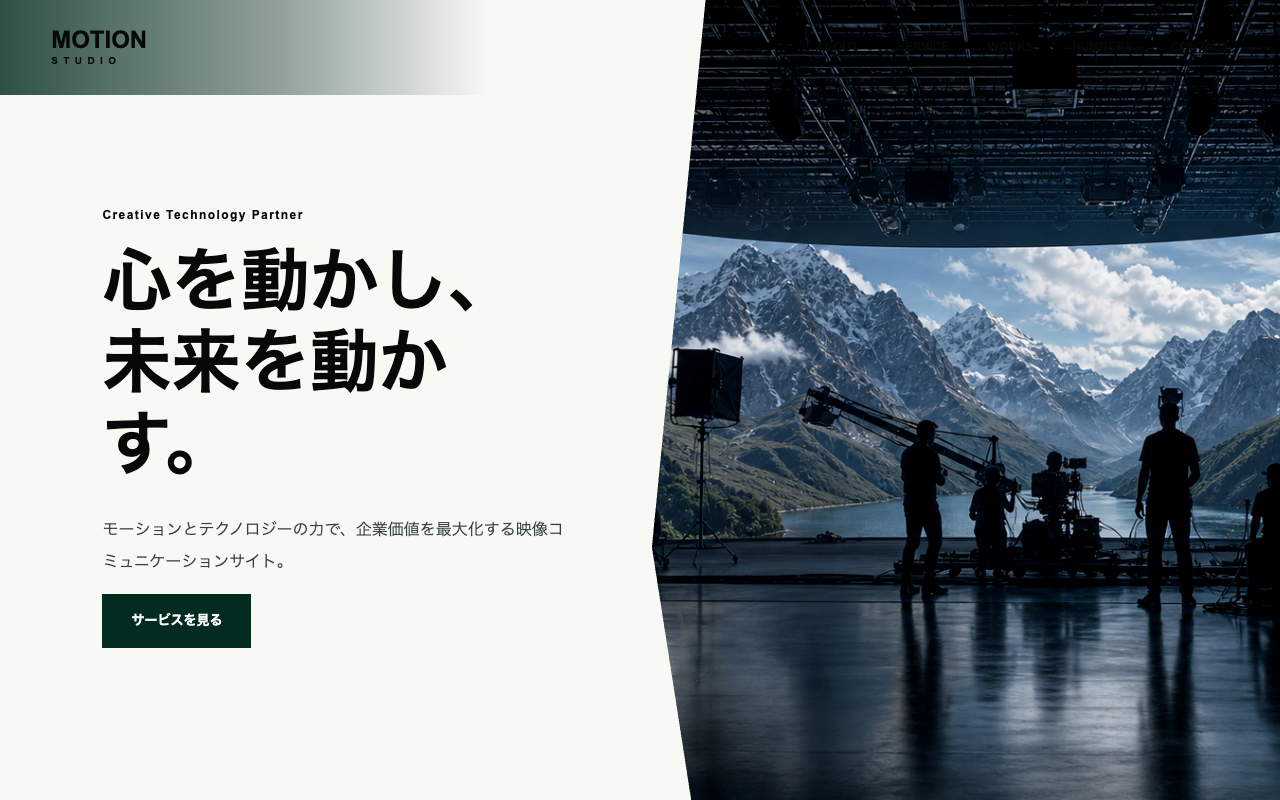
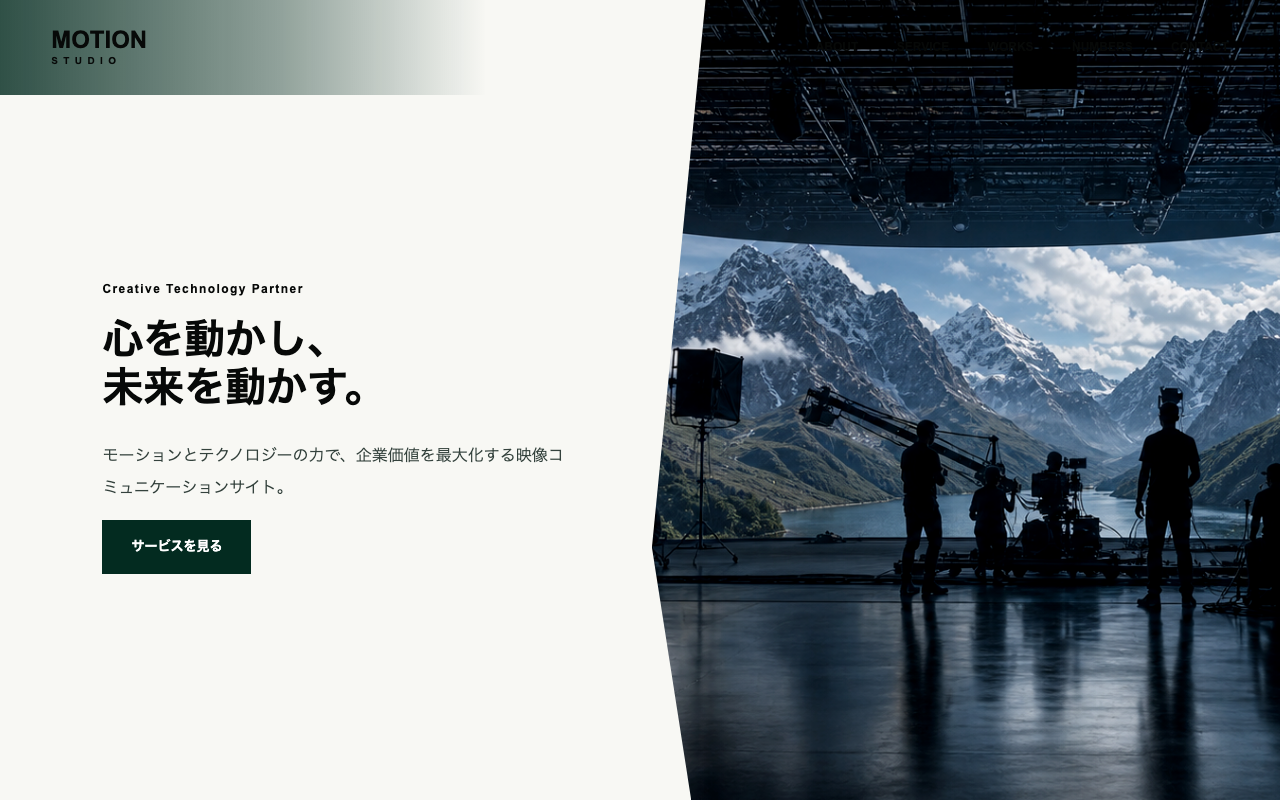
サンプルサイトのヒーローを是正（空箱・偽斜体・毒々しい配色・折返し）
■ 致命的：未完成のモックアップが出荷されていた
- ジム(FORMA): ヒーロー右半分が「Private Training Studio」という空の画像枠だった
  → 光と形の造形に置き換え（FORMA＝形。ブランド名と意味が一致）
- ペット: 「ペット・スタッフ写真」というプレースホルダの丸が残っていた → 撤去

■ 和文の偽斜体を全廃（実DOMで0件を確認）
- 「設計する。」「引き出す」など、日本語に真のイタリック字形が無いため
  ブラウザが機械的に傾けていた（synthesized oblique）

■ 配色
- ペット: 蛍光グリーン(#16a34a→#4ade80) → 落ち着いたセージ
- Webデザイナー: インディゴ→ピンク(#6366f1→#ec4899、生成AI/Web3の定番配色)
  → cyan→indigo の寒色ランプに
- 整体/税理士/社労士/ヨガ/美容室: べた塗りグラデ → 光と奥行きのある放射グラデ＋フィルムグレイン

■ コピー
- ジム: 全編英語だった（日本の中小事業者向けサンプルなのに）→ 日本語に
- motion: 「未来を動か/す。」と単語の途中で割れていた
  → 行をspan化して折り返し禁止＋フォントをclampに

■ 残る課題（正直に）
- 8テンプレはヒーローに画像が1枚も無い（CSSグラデーションのみ）。
  壊れてはいないが、写真のある7枚（cafe/editorial/law/piano/shodo/motion/tech）とは
  明確な差がある。真の納品レベルには写真が要る。
- ヒーロー以外にも空の画像枠が多数残存（Studio Image / インストラクター写真 /
  サロン内観 / 飲食店LP / Google Maps 等）

検証: 21ページ×2幅で横オーバーフロー0・コンソールエラー0・画像404 0

Changed region(s): [[0.0625, 0.3125, 0.4375, 0.8125], [0.0938, 0.25, 0.25, 0.2812]]

diff --git a/index.html b/index.html
@@ -343,7 +343,7 @@
   </div>
   <div class="mq reveal" role="region" aria-label="制作サンプル（自動スクロール）">
     <button type="button" class="mq-toggle" id="mqToggle" aria-pressed="false"><span class="mq-toggle-ico" aria-hidden="true"></span><span class="mq-toggle-txt">一時停止</span></button>
-    <div class="mq-row mq-row--left"><div class="mq-track"><a class="mq-card" href="gallery.html" aria-label="制作イメージ：カフェ・飲食店"><img fetchpriority="low" decoding="async" src="img/mq/sample-cafe.webp" alt="カフェ・飲食店のサイト制作イメージ（LUMEN自社制作サンプル・実案件ではありません）" width="560" height="350"><span class="work-mark">SAMPLE</span></a><a class="mq-card" href="gallery.html" aria-label="制作イメージ：コーポレート・企業"><img fetchpriority="low" decoding="async" src="img/mq/tmpl-editorial.webp?v=3" alt="コーポレート・企業のサイト制作イメージ（LUMEN自社制作サンプル・実案件ではありません）" width="560" height="350"><span class="work-mark">SAMPLE</span></a><a class="mq-card" href="gallery.html" aria-label="制作イメージ：IT・スタートアップ"><img fetchpriority="low" decoding="async" src="img/mq/tmpl-tech.webp" alt="IT・スタートアップのサイト制作イメージ（LUMEN自社制作サンプル・実案件ではありません）" width="560" height="350"><span class="work-mark">SAMPLE</span></a><a class="mq-card" href="gallery.html" aria-label="制作イメージ：法律事務所"><img fetchpriority="low" decoding="async" src="img/mq/sample-law.webp" alt="法律事務所のサイト制作イメージ（LUMEN自社制作サンプル・実案件ではありません）" width="560" height="350"><span class="work-mark">SAMPLE</span></a><a class="mq-card" href="gallery.html" aria-label="制作イメージ：士業・社労士"><img fetchpriority="low" decoding="async" src="img/mq/sample-sharoushi.webp" alt="士業・社労士のサイト制作イメージ（LUMEN自社制作サンプル・実案件ではありません）" width="560" height="350"><span class="work-mark">SAMPLE</span></a><a class="mq-card" href="gallery.html" aria-label="制作イメージ：税理士・会計"><img fetchpriority="low" decoding="async" src="img/mq/tmpl-tax.webp" alt="税理士・会計のサイト制作イメージ（LUMEN自社制作サンプル・実案件ではありません）" width="560" height="350"><span class="work-mark">SAMPLE</span></a><a class="mq-card" href="gallery.html" aria-label="制作イメージ：整体・整骨院"><img fetchpriority="low" decoding="async" src="img/mq/sample-seitai.webp" alt="整体・整骨院のサイト制作イメージ（LUMEN自社制作サンプル・実案件ではありません）" width="560" height="350"><span class="work-mark">SAMPLE</span></a><a class="mq-card" href="gallery.html" aria-label="制作イメージ：フィットネス・ジム"><img fetchpriority="low" decoding="async" src="img/mq/tmpl-gym.webp" alt="フィットネス・ジムのサイト制作イメージ（LUMEN自社制作サンプル・実案件ではありません）" width="560" height="350"><span class="work-mark">SAMPLE</span></a><a class="mq-card" href="gallery.html" aria-label="制作イメージ：ヨガ・スタジオ"><img fetchpriority="low" decoding="async" src="img/mq/tmpl-yoga.webp" alt="ヨガ・スタジオのサイト制作イメージ（LUMEN自社制作サンプル・実案件ではありません）" width="560" height="350"><span class="work-mark">SAMPLE</span></a><a class="mq-card" href="gallery.html" aria-label="制作イメージ：美容室・サロン"><img fetchpriority="low" decoding="async" src="img/mq/tmpl-hair.webp" alt="美容室・サロンのサイト制作イメージ（LUMEN自社制作サンプル・実案件ではありません）" width="560" height="350"><span class="work-mark">SAMPLE</span></a><a class="mq-card" href="gallery.html" aria-label="制作イメージ：ペット・動物病院"><img fetchpriority="low" decoding="async" src="img/mq/tmpl-pet.webp" alt="ペット・動物病院のサイト制作イメージ（LUMEN自社制作サンプル・実案件ではありません）" width="560" height="350"><span class="work-mark">SAMPLE</span></a><a class="mq-card" href="gallery.html" aria-label="制作イメージ：音楽・習い事教室"><img fetchpriority="low" decoding="async" src="img/mq/sample-piano.webp" alt="音楽・習い事教室のサイト制作イメージ（LUMEN自社制作サンプル・実案件ではありません）" width="560" height="350"><span class="work-mark">SAMPLE</span></a><a class="mq-card" href="gallery.html" aria-label="制作イメージ：映像・クリエイティブ"><img fetchpriority="low" decoding="async" src="img/mq/tmpl-motion.webp" alt="映像・クリエイティブのサイト制作イメージ（LUMEN自社制作サンプル・実案件ではありません）" width="560" height="350"><span class="work-mark">SAMPLE</span></a><a class="mq-card" href="gallery.html" aria-label="制作イメージ：Web・ブランド"><img fetchpriority="low" decoding="async" src="img/mq/tmpl-webdes.webp" alt="Web・ブランドのサイト制作イメージ（LUMEN自社制作サンプル・実案件ではありません）" width="560" height="350"><span class="work-mark">SAMPLE</span></a><a class="mq-card" href="gallery.html" aria-label="制作イメージ：書道・和の教室"><img fetchpriority="low" decoding="async" src="img/mq/sample-shodo.webp" alt="書道・和の教室のサイト制作イメージ（LUMEN自社制作サンプル・実案件ではありません）" width="560" height="350"><span class="work-mark">SAMPLE</span></a><a class="mq-card" href="gallery.html" aria-hidden="true" tabindex="-1"><img fetchpriority="low" decoding="async" src="img/mq/sample-cafe.webp" alt="カフェ・飲食店のサイト制作イメージ（LUMEN自社制作サンプル・実案件ではありません）" width="560" height="350"><span class="work-mark">SAMPLE</span></a><a class="mq-card" href="gallery.html" aria-hidden="true" tabindex="-1"><img fetchpriority="low" decoding="async" src="img/mq/tmpl-editorial.webp?v=3" alt="コーポレート・企業のサイト制作イメージ（LUMEN自社制作サンプル・実案件ではありません）" width="560" height="350"><span class="work-mark">SAMPLE</span></a><a class="mq-card" href="gallery.html" aria-hidden="true" tabindex="-1"><img fetchpriority="low" decoding="async" src="img/mq/tmpl-tech.webp" alt="IT・スタートアップのサイト制作イメージ（LUMEN自社制作サンプル・実案件ではありません）" width="560" height="350"><span class="work-mark">SAMPLE</span></a><a class="mq-card" href="gallery.html" aria-hidden="true" tabindex="-1"><img fetchpriority="low" decoding="async" src="img/mq/sample-law.webp" alt="法律事務所のサイト制作イメージ（LUMEN自社制作サンプル・実案件ではありません）" width="560" height="350"><span class="work-mark">SAMPLE</span></a><a class="mq-card" href="gallery.html" aria-hidden="true" tabindex="-1"><img fetchpriority="low" decoding="async" src="img/mq/sample-sharoushi.webp" alt="士業・社労士のサイト制作イメージ（LUMEN自社制作サンプル・実案件ではありません）" width="560" height="350"><span class="work-mark">SAMPLE</span></a><a class="mq-card" href="gallery.html" aria-hidden="true" tabindex="-1"><img fetchpriority="low" decoding="async" src="img/mq/tmpl-tax.webp" alt="税理士・会計のサイト制作イメージ（LUMEN自社制作サンプル・実案件ではありません）" width="560" height="350"><span class="work-mark">SAMPLE</span></a><a class="mq-card" href="gallery.html" aria-hidden="true" tabindex="-1"><img fetchpriority="low" decoding="async" src="img/mq/sample-seitai.webp" alt="整体・整骨院のサイト制作イメージ（LUMEN自社制作サンプル・実案件ではありません）" width="560" height="350"><span class="work-mark">SAMPLE</span></a><a class="mq-card" href="gallery.html" aria-hidden="true" tabindex="-1"><img fetchpriority="low" decoding="async" src="img/mq/tmpl-gym.webp" alt="フィットネス・ジムのサイト制作イメージ（LUMEN自社制作サンプル・実案件ではありません）" width="560" height="350"><span class="work-mark">SAMPLE</span></a><a class="mq-card" href="gallery.html" aria-hidden="true" tabindex="-1"><img fetchpriority="low" decoding="async" src="img/mq/tmpl-yoga.webp" alt="ヨガ・スタジオのサイト制作イメージ（LUMEN自社制作サンプル・実案件ではありません）" width="560" height="350"><span class="work-mark">SAMPLE</span></a><a class="mq-card" href="gallery.html" aria-hidden="true" tabindex="-1"><img fetchpriority="low" decoding="async" src="img/mq/tmpl-hair.webp" alt="美容室・サロンのサイト制作イメージ（LUMEN自社制作サンプル・実案件ではありません）" width="560" height="350"><span class="work-mark">SAMPLE</span></a><a class="mq-card" href="gallery.html" aria-hidden="true" tabindex="-1"><img fetchpriority="low" decoding="async" src="img/mq/tmpl-pet.webp" alt="ペット・動物病院のサイト制作イメージ（LUMEN自社制作サンプル・実案件ではありません）" width="560" height="350"><span class="work-mark">SAMPLE</span></a><a class="mq-card" href="gallery.html" aria-hidden="true" tabindex="-1"><img fetchpriority="low" decoding="async" src="img/mq/sample-piano.webp" alt="音楽・習い事教室のサイト制作イメージ（LUMEN自社制作サンプル・実案件ではありません）" width="560" height="350"><span class="work-mark">SAMPLE</span></a><a class="mq-card" href="gallery.html" aria-hidden="true" tabindex="-1"><img fetchpriority="low" decoding="async" src="img/mq/tmpl-motion.webp" alt="映像・クリエイティブのサイト制作イメージ（LUMEN自社制作サンプル・実案件ではありません）" width="560" height="350"><span class="work-mark">SAMPLE</span></a><a class="mq-card" href="gallery.html" aria-hidden="true" tabindex="-1"><img fetchpriority="low" decoding="async" src="img/mq/tmpl-webdes.webp" alt="Web・ブランドのサイト制作イメージ（LUMEN自社制作サンプル・実案件ではありません）" width="560" height="350"><span class="work-mark">SAMPLE</span></a><a class="mq-card" href="gallery.html" aria-hidden="true" tabindex="-1"><img fetchpriority="low" decoding="async" src="img/mq/sample-shodo.webp" alt="書道・和の教室のサイト制作イメージ（LUMEN自社制作サンプル・実案件ではありません）" width="560" height="350"><span class="work-mark">SAMPLE</span></a></div></div>
+    <div class="mq-row mq-row--left"><div class="mq-track"><a class="mq-card" href="gallery.html" aria-label="制作イメージ：カフェ・飲食店"><img fetchpriority="low" decoding="async" src="img/mq/sample-cafe.webp" alt="カフェ・飲食店のサイト制作イメージ（LUMEN自社制作サンプル・実案件ではありません）" width="560" height="350"><span class="work-mark">SAMPLE</span></a><a class="mq-card" href="gallery.html" aria-label="制作イメージ：コーポレート・企業"><img fetchpriority="low" decoding="async" src="img/mq/tmpl-editorial.webp?v=3" alt="コーポレート・企業のサイト制作イメージ（LUMEN自社制作サンプル・実案件ではありません）" width="560" height="350"><span class="work-mark">SAMPLE</span></a><a class="mq-card" href="gallery.html" aria-label="制作イメージ：IT・スタートアップ"><img fetchpriority="low" decoding="async" src="img/mq/tmpl-tech.webp" alt="IT・スタートアップのサイト制作イメージ（LUMEN自社制作サンプル・実案件ではありません）" width="560" height="350"><span class="work-mark">SAMPLE</span></a><a class="mq-card" href="gallery.html" aria-label="制作イメージ：法律事務所"><img fetchpriority="low" decoding="async" src="img/mq/sample-law.webp" alt="法律事務所のサイト制作イメージ（LUMEN自社制作サンプル・実案件ではありません）" width="560" height="350"><span class="work-mark">SAMPLE</span></a><a class="mq-card" href="gallery.html" aria-label="制作イメージ：士業・社労士"><img fetchpriority="low" decoding="async" src="img/mq/sample-sharoushi.webp?v=4" alt="士業・社労士のサイト制作イメージ（LUMEN自社制作サンプル・実案件ではありません）" width="560" height="350"><span class="work-mark">SAMPLE</span></a><a class="mq-card" href="gallery.html" aria-label="制作イメージ：税理士・会計"><img fetchpriority="low" decoding="async" src="img/mq/tmpl-tax.webp?v=4" alt="税理士・会計のサイト制作イメージ（LUMEN自社制作サンプル・実案件ではありません）" width="560" height="350"><span class="work-mark">SAMPLE</span></a><a class="mq-card" href="gallery.html" aria-label="制作イメージ：整体・整骨院"><img fetchpriority="low" decoding="async" src="img/mq/sample-seitai.webp?v=4" alt="整体・整骨院のサイト制作イメージ（LUMEN自社制作サンプル・実案件ではありません）" width="560" height="350"><span class="work-mark">SAMPLE</span></a><a class="mq-card" href="gallery.html" aria-label="制作イメージ：フィットネス・ジム"><img fetchpriority="low" decoding="async" src="img/mq/tmpl-gym.webp?v=4" alt="フィットネス・ジムのサイト制作イメージ（LUMEN自社制作サンプル・実案件ではありません）" width="560" height="350"><span class="work-mark">SAMPLE</span></a><a class="mq-card" href="gallery.html" aria-label="制作イメージ：ヨガ・スタジオ"><img fetchpriority="low" decoding="async" src="img/mq/tmpl-yoga.webp?v=4" alt="ヨガ・スタジオのサイト制作イメージ（LUMEN自社制作サンプル・実案件ではありません）" width="560" height="350"><span class="work-mark">SAMPLE</span></a><a class="mq-card" href="gallery.html" aria-label="制作イメージ：美容室・サロン"><img fetchpriority="low" decoding="async" src="img/mq/tmpl-hair.webp?v=4" alt="美容室・サロンのサイト制作イメージ（LUMEN自社制作サンプル・実案件ではありません）" width="560" height="350"><span class="work-mark">SAMPLE</span></a><a class="mq-card" href="gallery.html" aria-label="制作イメージ：ペット・動物病院"><img fetchpriority="low" decoding="async" src="img/mq/tmpl-pet.webp?v=4" alt="ペット・動物病院のサイト制作イメージ（LUMEN自社制作サンプル・実案件ではありません）" width="560" height="350"><span class="work-mark">SAMPLE</span></a><a class="mq-card" href="gallery.html" aria-label="制作イメージ：音楽・習い事教室"><img fetchpriority="low" decoding="async" src="img/mq/sample-piano.webp" alt="音楽・習い事教室のサイト制作イメージ（LUMEN自社制作サンプル・実案件ではありません）" width="560" height="350"><span class="work-mark">SAMPLE</span></a><a class="mq-card" href="gallery.html" aria-label="制作イメージ：映像・クリエイティブ"><img fetchpriority="low" decoding="async" src="img/mq/tmpl-motion.webp?v=4" alt="映像・クリエイティブのサイト制作イメージ（LUMEN自社制作サンプル・実案件ではありません）" width="560" height="350"><span class="work-mark">SAMPLE</span></a><a class="mq-card" href="gallery.html" aria-label="制作イメージ：Web・ブランド"><img fetchpriority="low" decoding="async" src="img/mq/tmpl-webdes.webp?v=4" alt="Web・ブランドのサイト制作イメージ（LUMEN自社制作サンプル・実案件ではありません）" width="560" height="350"><span class="work-mark">SAMPLE</span></a><a class="mq-card" href="gallery.html" aria-label="制作イメージ：書道・和の教室"><img fetchpriority="low" decoding="async" src="img/mq/sample-shodo.webp" alt="書道・和の教室のサイト制作イメージ（LUMEN自社制作サンプル・実案件ではありません）" width="560" height="350"><span class="work-mark">SAMPLE</span></a><a class="mq-card" href="gallery.html" aria-hidden="true" tabindex="-1"><img fetchpriority="low" decoding="async" src="img/mq/sample-cafe.webp" alt="カフェ・飲食店のサイト制作イメージ（LUMEN自社制作サンプル・実案件ではありません）" width="560" height="350"><span class="work-mark">SAMPLE</span></a><a class="mq-card" href="gallery.html" aria-hidden="true" tabindex="-1"><img fetchpriority="low" decoding="async" src="img/mq/tmpl-editorial.webp?v=3" alt="コーポレート・企業のサイト制作イメージ（LUMEN自社制作サンプル・実案件ではありません）" width="560" height="350"><span class="work-mark">SAMPLE</span></a><a class="mq-card" href="gallery.html" aria-hidden="true" tabindex="-1"><img fetchpriority="low" decoding="async" src="img/mq/tmpl-tech.webp" alt="IT・スタートアップのサイト制作イメージ（LUMEN自社制作サンプル・実案件ではありません）" width="560" height="350"><span class="work-mark">SAMPLE</span></a><a class="mq-card" href="gallery.html" aria-hidden="true" tabindex="-1"><img fetchpriority="low" decoding="async" src="img/mq/sample-law.webp" alt="法律事務所のサイト制作イメージ（LUMEN自社制作サンプル・実案件ではありません）" width="560" height="350"><span class="work-mark">SAMPLE</span></a><a class="mq-card" href="gallery.html" aria-hidden="true" tabindex="-1"><img fetchpriority="low" decoding="async" src="img/mq/sample-sharoushi.webp?v=4" alt="士業・社労士のサイト制作イメージ（LUMEN自社制作サンプル・実案件ではありません）" width="560" height="350"><span class="work-mark">SAMPLE</span></a><a class="mq-card" href="gallery.html" aria-hidden="true" tabindex="-1"><img fetchpriority="low" decoding="async" src="img/mq/tmpl-tax.webp?v=4" alt="税理士・会計のサイト制作イメージ（LUMEN自社制作サンプル・実案件ではありません）" width="560" height="350"><span class="work-mark">SAMPLE</span></a><a class="mq-card" href="gallery.html" aria-hidden="true" tabindex="-1"><img fetchpriority="low" decoding="async" src="img/mq/sample-seitai.webp?v=4" alt="整体・整骨院のサイト制作イメージ（LUMEN自社制作サンプル・実案件ではありません）" width="560" height="350"><span class="work-mark">SAMPLE</span></a><a class="mq-card" href="gallery.html" aria-hidden="true" tabindex="-1"><img fetchpriority="low" decoding="async" src="img/mq/tmpl-gym.webp?v=4" alt="フィットネス・ジムのサイト制作イメージ（LUMEN自社制作サンプル・実案件ではありません）" width="560" height="350"><span class="work-mark">SAMPLE</span></a><a class="mq-card" href="gallery.html" aria-hidden="true" tabindex="-1"><img fetchpriority="low" decoding="async" src="img/mq/tmpl-yoga.webp?v=4" alt="ヨガ・スタジオのサイト制作イメージ（LUMEN自社制作サンプル・実案件ではありません）" width="560" height="350"><span class="work-mark">SAMPLE</span></a><a class="mq-card" href="gallery.html" aria-hidden="true" tabindex="-1"><img fetchpriority="low" decoding="async" src="img/mq/tmpl-hair.webp?v=4" alt="美容室・サロンのサイト制作イメージ（LUMEN自社制作サンプル・実案件ではありません）" width="560" height="350"><span class="work-mark">SAMPLE</span></a><a class="mq-card" href="gallery.html" aria-hidden="true" tabindex="-1"><img fetchpriority="low" decoding="async" src="img/mq/tmpl-pet.webp?v=4" alt="ペット・動物病院のサイト制作イメージ（LUMEN自社制作サンプル・実案件ではありません）" width="560" height="350"><span class="work-mark">SAMPLE</span></a><a class="mq-card" href="gallery.html" aria-hidden="true" tabindex="-1"><img fetchpriority="low" decoding="async" src="img/mq/sample-piano.webp" alt="音楽・習い事教室のサイト制作イメージ（LUMEN自社制作サンプル・実案件ではありません）" width="560" height="350"><span class="work-mark">SAMPLE</span></a><a class="mq-card" href="gallery.html" aria-hidden="true" tabindex="-1"><img fetchpriority="low" decoding="async" src="img/mq/tmpl-motion.webp?v=4" alt="映像・クリエイティブのサイト制作イメージ（LUMEN自社制作サンプル・実案件ではありません）" width="560" height="350"><span class="work-mark">SAMPLE</span></a><a class="mq-card" href="gallery.html" aria-hidden="true" tabindex="-1"><img fetchpriority="low" decoding="async" src="img/mq/tmpl-webdes.webp?v=4" alt="Web・ブランドのサイト制作イメージ（LUMEN自社制作サンプル・実案件ではありません）" width="560" height="350"><span class="work-mark">SAMPLE</span></a><a class="mq-card" href="gallery.html" aria-hidden="true" tabindex="-1"><img fetchpriority="low" decoding="async" src="img/mq/sample-shodo.webp" alt="書道・和の教室のサイト制作イメージ（LUMEN自社制作サンプル・実案件ではありません）" width="560" height="350"><span class="work-mark">SAMPLE</span></a></div></div>
     <div class="mq-row mq-row--right"><div class="mq-track"><a class="mq-card mq-card--live" href="works/hero-water.html" target="_blank" rel="noopener" aria-label="動く演出：水面と光"><img fetchpriority="low" decoding="async" src="img/mq/hero-water.webp" alt="水面と光の動くヒーロー演出（LUMEN自社制作サンプル・実案件ではありません）" width="560" height="350"><span class="mq-live">LIVE</span><span class="work-mark">SAMPLE</span></a><a class="mq-card mq-card--live" href="works/hero-aurora.html" target="_blank" rel="noopener" aria-label="動く演出：オーロラ"><img fetchpriority="low" decoding="async" src="img/mq/hero-aurora.webp" alt="オーロラの動くヒーロー演出（LUMEN自社制作サンプル・実案件ではありません）" width="560" height="350"><span class="mq-live">LIVE</span><span class="work-mark">SAMPLE</span></a><a class="mq-card mq-card--live" href="works/hero-geo.html" target="_blank" rel="noopener" aria-label="動く演出：浮遊する立体"><img fetchpriority="low" decoding="async" src="img/mq/hero-geo.webp" alt="浮遊する立体の動くヒーロー演出（LUMEN自社制作サンプル・実案件ではありません）" width="560" height="350"><span class="mq-live">LIVE</span><span class="work-mark">SAMPLE</span></a><a class="mq-card mq-card--live" href="works/hero-glass.html" target="_blank" rel="noopener" aria-label="動く演出：ガラスの屈折"><img fetchpriority="low" decoding="async" src="img/mq/hero-glass.webp" alt="ガラスの屈折の動くヒーロー演出（LUMEN自社制作サンプル・実案件ではありません）" width="560" height="350"><span class="mq-live">LIVE</span><span class="work-mark">SAMPLE</span></a><a class="mq-card mq-card--live" href="works/hero-grid.html" target="_blank" rel="noopener" aria-label="動く演出：奥行きグリッド"><img fetchpriority="low" decoding="async" src="img/mq/hero-grid.webp" alt="奥行きグリッドの動くヒーロー演出（LUMEN自社制作サンプル・実案件ではありません）" width="560" height="350"><span class="mq-live">LIVE</span><span class="work-mark">SAMPLE</span></a><a class="mq-card mq-card--live" href="works/hero-particles.html" target="_blank" rel="noopener" aria-label="動く演出：フロウ・フィールド"><img fetchpriority="low" decoding="async" src="img/mq/hero-particles.webp" alt="フロウ・フィールドの動くヒーロー演出（LUMEN自社制作サンプル・実案件ではありません）" width="560" height="350"><span class="mq-live">LIVE</span><span class="work-mark">SAMPLE</span></a><a class="mq-card mq-card--live" href="works/hero-crystal.html" target="_blank" rel="noopener" aria-label="動く演出：クリスタル"><img fetchpriority="low" decoding="async" src="img/mq/hero-crystal.webp" alt="クリスタルの動くヒーロー演出（LUMEN自社制作サンプル・実案件ではありません）" width="560" height="350"><span class="mq-live">LIVE</span><span class="work-mark">SAMPLE</span></a><a class="mq-card mq-card--live" href="works/hero-caustics.html" target="_blank" rel="noopener" aria-label="動く演出：コースティクス"><img fetchpriority="low" decoding="async" src="img/mq/hero-caustics.webp" alt="コースティクスの動くヒーロー演出（LUMEN自社制作サンプル・実案件ではありません）" width="560" height="350"><span class="mq-live">LIVE</span><span class="work-mark">SAMPLE</span></a><a class="mq-card mq-card--live" href="works/hero-carbon.html" target="_blank" rel="noopener" aria-label="動く演出：カーボンメッシュ"><img fetchpriority="low" decoding="async" src="img/mq/hero-carbon.webp" alt="カーボンメッシュの動くヒーロー演出（LUMEN自社制作サンプル・実案件ではありません）" width="560" height="350"><span class="mq-live">LIVE</span><span class="work-mark">SAMPLE</span></a><a class="mq-card mq-card--live" href="works/hero-light.html" target="_blank" rel="noopener" aria-label="動く演出：ライト・グラデーション"><img fetchpriority="low" decoding="async" src="img/mq/hero-light.webp" alt="ライト・グラデーションの動くヒーロー演出（LUMEN自社制作サンプル・実案件ではありません）" width="560" height="350"><span class="mq-live">LIVE</span><span class="work-mark">SAMPLE</span></a><a class="mq-card mq-card--live" href="works/hero-water.html" target="_blank" rel="noopener" aria-hidden="true" tabindex="-1"><img fetchpriority="low" decoding="async" src="img/mq/hero-water.webp" alt="水面と光の動くヒーロー演出（LUMEN自社制作サンプル・実案件ではありません）" width="560" height="350"><span class="mq-live">LIVE</span><span class="work-mark">SAMPLE</span></a><a class="mq-card mq-card--live" href="works/hero-aurora.html" target="_blank" rel="noopener" aria-hidden="true" tabindex="-1"><img fetchpriority="low" decoding="async" src="img/mq/hero-aurora.webp" alt="オーロラの動くヒーロー演出（LUMEN自社制作サンプル・実案件ではありません）" width="560" height="350"><span class="mq-live">LIVE</span><span class="work-mark">SAMPLE</span></a><a class="mq-card mq-card--live" href="works/hero-geo.html" target="_blank" rel="noopener" aria-hidden="true" tabindex="-1"><img fetchpriority="low" decoding="async" src="img/mq/hero-geo.webp" alt="浮遊する立体の動くヒーロー演出（LUMEN自社制作サンプル・実案件ではありません）" width="560" height="350"><span class="mq-live">LIVE</span><span class="work-mark">SAMPLE</span></a><a class="mq-card mq-card--live" href="works/hero-glass.html" target="_blank" rel="noopener" aria-hidden="true" tabindex="-1"><img fetchpriority="low" decoding="async" src="img/mq/hero-glass.webp" alt="ガラスの屈折の動くヒーロー演出（LUMEN自社制作サンプル・実案件ではありません）" width="560" height="350"><span class="mq-live">LIVE</span><span class="work-mark">SAMPLE</span></a><a class="mq-card mq-card--live" href="works/hero-grid.html" target="_blank" rel="noopener" aria-hidden="true" tabindex="-1"><img fetchpriority="low" decoding="async" src="img/mq/hero-grid.webp" alt="奥行きグリッドの動くヒーロー演出（LUMEN自社制作サンプル・実案件ではありません）" width="560" height="350"><span class="mq-live">LIVE</span><span class="work-mark">SAMPLE</span></a><a class="mq-card mq-card--live" href="works/hero-particles.html" target="_blank" rel="noopener" aria-hidden="true" tabindex="-1"><img fetchpriority="low" decoding="async" src="img/mq/hero-particles.webp" alt="フロウ・フィールドの動くヒーロー演出（LUMEN自社制作サンプル・実案件ではありません）" width="560" height="350"><span class="mq-live">LIVE</span><span class="work-mark">SAMPLE</span></a><a class="mq-card mq-card--live" href="works/hero-crystal.html" target="_blank" rel="noopener" aria-hidden="true" tabindex="-1"><img fetchpriority="low" decoding="async" src="img/mq/hero-crystal.webp" alt="クリスタルの動くヒーロー演出（LUMEN自社制作サンプル・実案件ではありません）" width="560" height="350"><span class="mq-live">LIVE</span><span class="work-mark">SAMPLE</span></a><a class="mq-card mq-card--live" href="works/hero-caustics.html" target="_blank" rel="noopener" aria-hidden="true" tabindex="-1"><img fetchpriority="low" decoding="async" src="img/mq/hero-caustics.webp" alt="コースティクスの動くヒーロー演出（LUMEN自社制作サンプル・実案件ではありません）" width="560" height="350"><span class="mq-live">LIVE</span><span class="work-mark">SAMPLE</span></a><a class="mq-card mq-card--live" href="works/hero-carbon.html" target="_blank" rel="noopener" aria-hidden="true" tabindex="-1"><img fetchpriority="low" decoding="async" src="img/mq/hero-carbon.webp" alt="カーボンメッシュの動くヒーロー演出（LUMEN自社制作サンプル・実案件ではありません）" width="560" height="350"><span class="mq-live">LIVE</span><span class="work-mark">SAMPLE</span></a><a class="mq-card mq-card--live" href="works/hero-light.html" target="_blank" rel="noopener" aria-hidden="true" tabindex="-1"><img fetchpriority="low" decoding="async" src="img/mq/hero-light.webp" alt="ライト・グラデーションの動くヒーロー演出（LUMEN自社制作サンプル・実案件ではありません）" width="560" height="350"><span class="mq-live">LIVE</span><span class="work-mark">SAMPLE</span></a></div></div>
   </div>
   <div class="wrap">

diff --git a/gallery.html b/gallery.html
@@ -119,16 +119,16 @@
       <figure class="work-card"><img src="img/samples/tmpl-editorial.png?v=3" alt="コーポレート・企業サイトの制作イメージ（LUMEN自社制作サンプル・実案件ではありません）" loading="lazy" width="1280" height="800"><span class="work-mark">SAMPLE</span><figcaption class="work-cap"><b>コーポレート・企業</b><span>Corporate</span></figcaption></figure>
       <figure class="work-card"><img src="img/samples/tmpl-tech.png" alt="IT・スタートアップのサイト制作イメージ（LUMEN自社制作サンプル・実案件ではありません）" loading="lazy" width="1280" height="800"><span class="work-mark">SAMPLE</span><figcaption class="work-cap"><b>IT・スタートアップ</b><span>Tech</span></figcaption></figure>
       <figure class="work-card"><img src="img/samples/sample-law.png" alt="法律事務所のサイト制作イメージ（LUMEN自社制作サンプル・実案件ではありません）" loading="lazy" width="1280" height="800"><span class="work-mark">SAMPLE</span><figcaption class="work-cap"><b>法律事務所</b><span>Law Office</span></figcaption></figure>
-      <figure class="work-card"><img src="img/samples/sample-sharoushi.png" alt="社労士・士業のサイト制作イメージ（LUMEN自社制作サンプル・実案件ではありません）" loading="lazy" width="1280" height="800"><span class="work-mark">SAMPLE</span><figcaption class="work-cap"><b>士業・社労士</b><span>Professional</span></figcaption></figure>
-      <figure class="work-card"><img src="img/samples/tmpl-tax.png" alt="税理士・会計事務所のサイト制作イメージ（LUMEN自社制作サンプル・実案件ではありません）" loading="lazy" width="1280" height="800"><span class="work-mark">SAMPLE</span><figcaption class="work-cap"><b>税理士・会計</b><span>Accounting</span></figcaption></figure>
-      <figure class="work-card"><img src="img/samples/sample-seitai.png" alt="整体・整骨院のサイト制作イメージ（LUMEN自社制作サンプル・実案件ではありません）" loading="lazy" width="1280" height="800"><span class="work-mark">SAMPLE</span><figcaption class="work-cap"><b>整体・整骨院</b><span>Wellness</span></figcaption></figure>
-      <figure class="work-card"><img src="img/samples/tmpl-gym.png" alt="フィットネス・ジムのサイト制作イメージ（LUMEN自社制作サンプル・実案件ではありません）" loading="lazy" width="1280" height="800"><span class="work-mark">SAMPLE</span><figcaption class="work-cap"><b>フィットネス・ジム</b><span>Fitness</span></figcaption></figure>
-      <figure class="work-card"><img src="img/samples/tmpl-yoga.png" alt="ヨガ・スタジオのサイト制作イメージ（LUMEN自社制作サンプル・実案件ではありません）" loading="lazy" width="1280" height="800"><span class="work-mark">SAMPLE</span><figcaption class="work-cap"><b>ヨガ・スタジオ</b><span>Yoga</span></figcaption></figure>
-      <figure class="work-card"><img src="img/samples/tmpl-hair.png" alt="美容室・サロンのサイト制作イメージ（LUMEN自社制作サンプル・実案件ではありません）" loading="lazy" width="1280" height="800"><span class="work-mark">SAMPLE</span><figcaption class="work-cap"><b>美容室・サロン</b><span>Beauty</span></figcaption></figure>
-      <figure class="work-card"><img src="img/samples/tmpl-pet.png" alt="ペット・動物病院のサイト制作イメージ（LUMEN自社制作サンプル・実案件ではありません）" loading="lazy" width="1280" height="800"><span class="work-mark">SAMPLE</span><figcaption class="work-cap"><b>ペット・動物病院</b><span>Pet Care</span></figcaption></figure>
+      <figure class="work-card"><img src="img/samples/sample-sharoushi.png?v=4" alt="社労士・士業のサイト制作イメージ（LUMEN自社制作サンプル・実案件ではありません）" loading="lazy" width="1280" height="800"><span class="work-mark">SAMPLE</span><figcaption class="work-cap"><b>士業・社労士</b><span>Professional</span></figcaption></figure>
+      <figure class="work-card"><img src="img/samples/tmpl-tax.png?v=4" alt="税理士・会計事務所のサイト制作イメージ（LUMEN自社制作サンプル・実案件ではありません）" loading="lazy" width="1280" height="800"><span class="work-mark">SAMPLE</span><figcaption class="work-cap"><b>税理士・会計</b><span>Accounting</span></figcaption></figure>
+      <figure class="work-card"><img src="img/samples/sample-seitai.png?v=4" alt="整体・整骨院のサイト制作イメージ（LUMEN自社制作サンプル・実案件ではありません）" loading="lazy" width="1280" height="800"><span class="work-mark">SAMPLE</span><figcaption class="work-cap"><b>整体・整骨院</b><span>Wellness</span></figcaption></figure>
+      <figure class="work-card"><img src="img/samples/tmpl-gym.png?v=4" alt="フィットネス・ジムのサイト制作イメージ（LUMEN自社制作サンプル・実案件ではありません）" loading="lazy" width="1280" height="800"><span class="work-mark">SAMPLE</span><figcaption class="work-cap"><b>フィットネス・ジム</b><span>Fitness</span></figcaption></figure>
+      <figure class="work-card"><img src="img/samples/tmpl-yoga.png?v=4" alt="ヨガ・スタジオのサイト制作イメージ（LUMEN自社制作サンプル・実案件ではありません）" loading="lazy" width="1280" height="800"><span class="work-mark">SAMPLE</span><figcaption class="work-cap"><b>ヨガ・スタジオ</b><span>Yoga</span></figcaption></figure>
+      <figure class="work-card"><img src="img/samples/tmpl-hair.png?v=4" alt="美容室・サロンのサイト制作イメージ（LUMEN自社制作サンプル・実案件ではありません）" loading="lazy" width="1280" height="800"><span class="work-mark">SAMPLE</span><figcaption class="work-cap"><b>美容室・サロン</b><span>Beauty</span></figcaption></figure>
+      <figure class="work-card"><img src="img/samples/tmpl-pet.png?v=4" alt="ペット・動物病院のサイト制作イメージ（LUMEN自社制作サンプル・実案件ではありません）" loading="lazy" width="1280" height="800"><span class="work-mark">SAMPLE</span><figcaption class="work-cap"><b>ペット・動物病院</b><span>Pet Care</span></figcaption></figure>
       <figure class="work-card"><img src="img/samples/sample-piano.png?v=2" alt="音楽・習い事教室のサイト制作イメージ（LUMEN自社制作サンプル・実案件ではありません）" loading="lazy" width="1280" height="800"><span class="work-mark">SAMPLE</span><figcaption class="work-cap"><b>音楽・習い事教室</b><span>Music</span></figcaption></figure>
-      <figure class="work-card"><img src="img/samples/tmpl-motion.png" alt="映像・クリエイティブのサイト制作イメージ（LUMEN自社制作サンプル・実案件ではありません）" loading="lazy" width="1280" height="800"><span class="work-mark">SAMPLE</span><figcaption class="work-cap"><b>映像・クリエイティブ</b><span>Creative</span></figcaption></figure>
-      <figure class="work-card"><img src="img/samples/tmpl-webdes.png" alt="Web・ブランドサイトの制作イメージ（LUMEN自社制作サンプル・実案件ではありません）" loading="lazy" width="1280" height="800"><span class="work-mark">SAMPLE</span><figcaption class="work-cap"><b>Web・ブランド</b><span>Brand</span></figcaption></figure>
+      <figure class="work-card"><img src="img/samples/tmpl-motion.png?v=4" alt="映像・クリエイティブのサイト制作イメージ（LUMEN自社制作サンプル・実案件ではありません）" loading="lazy" width="1280" height="800"><span class="work-mark">SAMPLE</span><figcaption class="work-cap"><b>映像・クリエイティブ</b><span>Creative</span></figcaption></figure>
+      <figure class="work-card"><img src="img/samples/tmpl-webdes.png?v=4" alt="Web・ブランドサイトの制作イメージ（LUMEN自社制作サンプル・実案件ではありません）" loading="lazy" width="1280" height="800"><span class="work-mark">SAMPLE</span><figcaption class="work-cap"><b>Web・ブランド</b><span>Brand</span></figcaption></figure>
       <figure class="work-card"><img src="img/samples/sample-shodo.png" alt="書道・和の教室のサイト制作イメージ（LUMEN自社制作サンプル・実案件ではありません）" loading="lazy" width="1280" height="800"><span class="work-mark">SAMPLE</span><figcaption class="work-cap"><b>書道・和の教室</b><span>Japanese</span></figcaption></figure>
     </div>
     <p style="font-size:.85rem;color:var(--muted);margin-top:18px">※ すべてLUMEN制作のオリジナルデザインサンプルです（実案件の納品物ではありません）。デザインは一例で、業種・ブランドに合わせて一から制作します。無断転載・複製を禁じます。</p>
